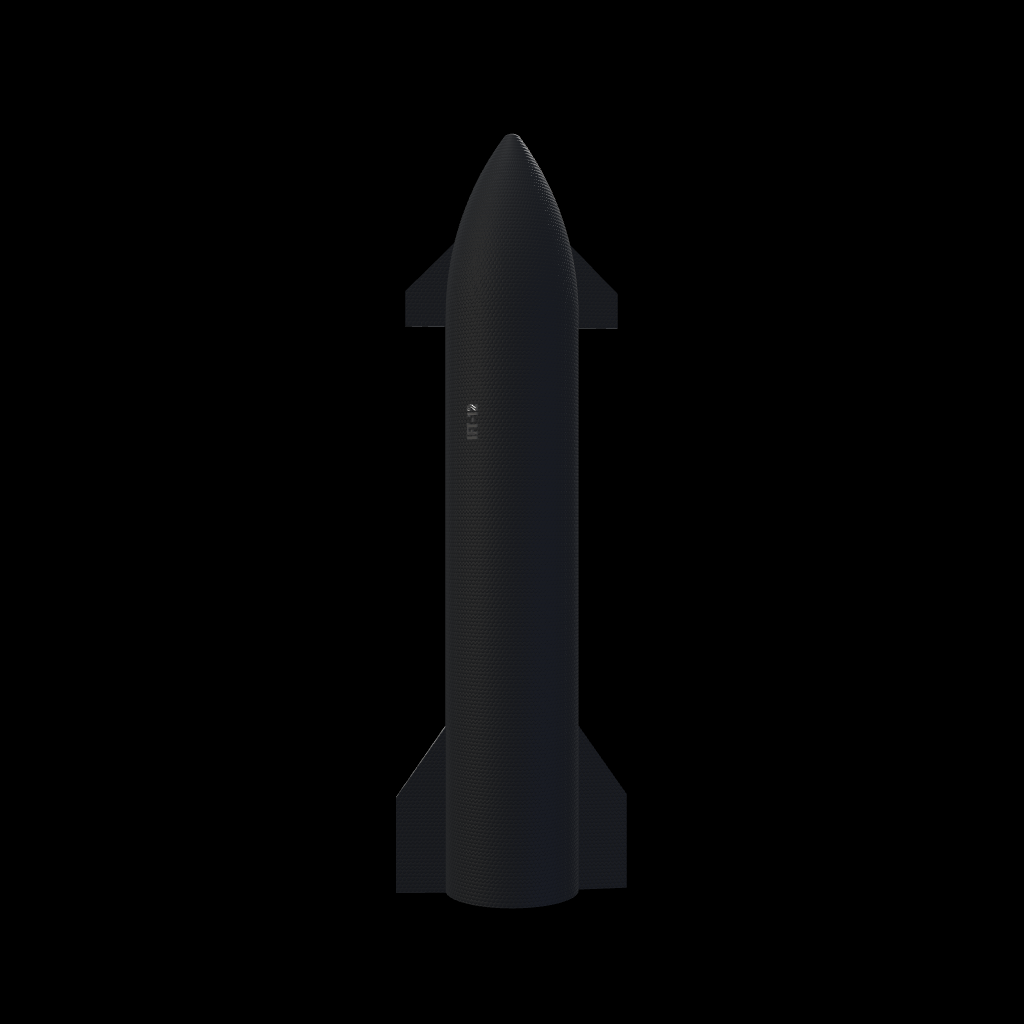
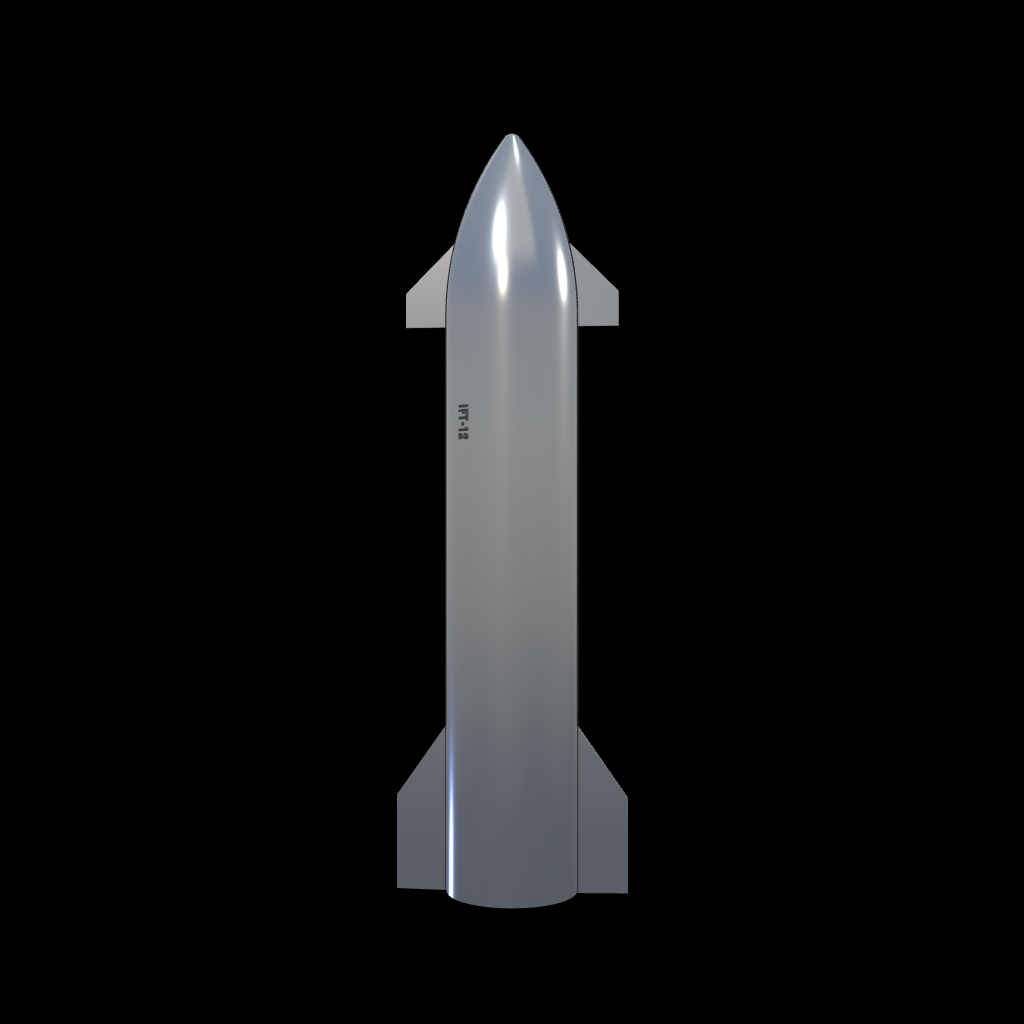
Fix hull lettering: leeward side, first letter toward the nose.
Revert windward default and flip text rotation so the name reads
nose→engines (string left-to-right) on stainless.

Changed region(s): [[0.375, 0.125, 0.625, 0.9062]]

diff --git a/index.html b/index.html
@@ -18,7 +18,7 @@
       content="https://leedsexplore.github.io/starship-custom-name/"
     />
     <link rel="canonical" href="https://leedsexplore.github.io/starship-custom-name/" />
-    <link rel="stylesheet" href="styles.css?v=2.4.15" />
+    <link rel="stylesheet" href="styles.css?v=2.4.16" />
   </head>
   <body>
     <div id="app">
@@ -26,7 +26,7 @@
         <header class="brand">
           <p class="eyebrow">
             Your name on Starship
-            <span class="version" id="app-version" aria-label="App version">v2.4.15</span>
+            <span class="version" id="app-version" aria-label="App version">v2.4.16</span>
           </p>
           <h1>Starship Custom Name</h1>
           <p class="lede">
@@ -121,16 +121,16 @@
             <legend>Hull side</legend>
             <div class="segmented">
               <label
-                ><input type="radio" name="side" value="right" />
+                ><input type="radio" name="side" value="right" checked />
                 Leeward</label
               >
               <label
-                ><input type="radio" name="side" value="left" checked /> Windward</label
+                ><input type="radio" name="side" value="left" /> Windward</label
               >
             </div>
             <p class="field-note">
-              Default is windward (tiled). Switch to leeward for bare stainless /
-              flight-style S## placement.
+              Leeward = bare stainless. Letters start at the nose and read down
+              the hull (left-to-right in the name string).
             </p>
           </fieldset>
 
@@ -258,10 +258,10 @@
             <div class="named-covers" id="named-covers">
               <a
                 class="named-cover"
-                href="?ship=parametric&amp;name=S40&amp;side=left&amp;style=raised&amp;scale=100&amp;size=3.5&amp;pos=30&amp;text=1c1c1c&amp;font=oswald-bold"
+                href="?ship=parametric&amp;name=S40&amp;side=right&amp;style=raised&amp;scale=100&amp;size=3.5&amp;pos=30&amp;text=1c1c1c&amp;font=oswald-bold"
               >
                 <img
-                  src="./assets/named-covers/thumbs/s40.png?v=2.4.15"
+                  src="./assets/named-covers/thumbs/s40.png?v=2.4.16"
                   width="160"
                   height="160"
                   alt="S40 cover"
@@ -271,10 +271,10 @@
               </a>
               <a
                 class="named-cover"
-                href="?ship=parametric&amp;name=S33&amp;side=left&amp;style=raised&amp;scale=100&amp;size=3.5&amp;pos=30&amp;text=1c1c1c&amp;font=oswald-bold"
+                href="?ship=parametric&amp;name=S33&amp;side=right&amp;style=raised&amp;scale=100&amp;size=3.5&amp;pos=30&amp;text=1c1c1c&amp;font=oswald-bold"
               >
                 <img
-                  src="./assets/named-covers/thumbs/s33.png?v=2.4.15"
+                  src="./assets/named-covers/thumbs/s33.png?v=2.4.16"
                   width="160"
                   height="160"
                   alt="S33 cover"
@@ -284,10 +284,10 @@
               </a>
               <a
                 class="named-cover"
-                href="?ship=parametric&amp;name=IFT-12&amp;side=left&amp;style=raised&amp;scale=100&amp;size=3.5&amp;pos=30&amp;text=1c1c1c&amp;font=oswald-bold"
+                href="?ship=parametric&amp;name=IFT-12&amp;side=right&amp;style=raised&amp;scale=100&amp;size=3.5&amp;pos=30&amp;text=1c1c1c&amp;font=oswald-bold"
               >
                 <img
-                  src="./assets/named-covers/thumbs/ift-12.png?v=2.4.15"
+                  src="./assets/named-covers/thumbs/ift-12.png?v=2.4.16"
                   width="160"
                   height="160"
                   alt="IFT-12 cover"
@@ -297,10 +297,10 @@
               </a>
               <a
                 class="named-cover"
-                href="?ship=parametric&amp;name=Starship&amp;side=left&amp;style=raised&amp;scale=100&amp;size=3.5&amp;pos=30&amp;text=1c1c1c&amp;font=oswald-bold"
+                href="?ship=parametric&amp;name=Starship&amp;side=right&amp;style=raised&amp;scale=100&amp;size=3.5&amp;pos=30&amp;text=1c1c1c&amp;font=oswald-bold"
               >
                 <img
-                  src="./assets/named-covers/thumbs/starship.png?v=2.4.15"
+                  src="./assets/named-covers/thumbs/starship.png?v=2.4.16"
                   width="160"
                   height="160"
                   alt="Starship cover"
@@ -330,7 +330,7 @@
               rel="noopener"
               >source</a
             >
-            · <span id="footer-version">v2.4.15</span>)
+            · <span id="footer-version">v2.4.16</span>)
           </p>
           <p>
             Print files (hex one-piece + MMU):
@@ -392,6 +392,6 @@
         }
       }
     </script>
-    <script type="module" src="app.js?v=2.4.15"></script>
+    <script type="module" src="app.js?v=2.4.16"></script>
   </body>
 </html>

diff --git a/app.js b/app.js
@@ -5,14 +5,14 @@ import { STLExporter } from "three/addons/exporters/STLExporter.js";
 import { FontLoader } from "three/addons/loaders/FontLoader.js";
 import { TextGeometry } from "three/addons/geometries/TextGeometry.js";
 import { Brush, Evaluator, SUBTRACTION, HOLLOW_SUBTRACTION } from "three-bvh-csg";
-import { build3mf } from "./export3mf.js?v=2.4.15";
+import { build3mf } from "./export3mf.js?v=2.4.16";
 import {
   APP_NAME,
   APP_VERSION,
   AUTHOR,
   creditLine,
   versionLabel,
-} from "./version.js?v=2.4.15";
+} from "./version.js?v=2.4.16";
 
 const CACHE_BUST = APP_VERSION;
 
@@ -60,12 +60,12 @@ const SHIPS = {
     flapZoneYMm: 60,
     defaultSizeMm: 3.5,
     /**
-     * Default on the windward face (180° from the classic leeward S## band).
+     * Leeward stainless, toward the nose; letters run nose→engines (first char at top).
      */
     defaultPosMm: 30,
-    defaultSide: "left",
-    /** Circumferential offset (mm along hull); mirrored with windward default. */
-    markingAcrossMm: 16,
+    defaultSide: "right",
+    /** Circumferential offset (mm along hull) toward the opposite TPS seam (−X). */
+    markingAcrossMm: -16,
     /** Exported nose-up along +Z with flaps on ±Y — swing into app convention. */
     orient(geometry) {
       geometry.rotateX(-Math.PI / 2); // nose +Z → +Y
@@ -1215,8 +1215,9 @@ function buildFlatTextGeometry(text, size, extrudeMm) {
     -(bb.min.y + bb.max.y) / 2,
     0
   );
-  // Letters run along +Y (ship length); letter height along ±X; extrude +Z.
-  geometry.rotateZ(Math.PI / 2);
+  // Letters run along the hull: first glyph toward the nose (+Y), last toward
+  // the engines (−Y). Letter height along +X; extrude +Z.
+  geometry.rotateZ(-Math.PI / 2);
   // Flight-style italic: slant tops toward the nose (+Y), matching S40 FS-13.
   if (el.italic?.checked) {
     applyFlightItalicShear(geometry);

diff --git a/assets/starship_cad_preview.html b/assets/starship_cad_preview.html
@@ -104,7 +104,7 @@ const PARTS = HEX_RELIEF
   ? [
       {
         label: "stainless hull",
-        url: "./starship_print_1_200_steel.stl?v=2.4.15",
+        url: "./starship_print_1_200_steel.stl?v=2.4.16",
         scale: PRINT_TO_M,
         mat: new THREE.MeshStandardMaterial({
           color: 0x8a929c,
@@ -115,7 +115,7 @@ const PARTS = HEX_RELIEF
       },
       {
         label: "hex heat shield + Raptors",
-        url: "./starship_print_1_200_tiles_hex.stl?v=2.4.15",
+        url: "./starship_print_1_200_tiles_hex.stl?v=2.4.16",
         scale: PRINT_TO_M,
         mat: new THREE.MeshStandardMaterial({
           color: 0x1e2126,
@@ -128,7 +128,7 @@ const PARTS = HEX_RELIEF
   : [
       {
         label: "steel hull + flaps",
-        url: "./starship_print_1_200_steel.stl?v=2.4.15",
+        url: "./starship_print_1_200_steel.stl?v=2.4.16",
         scale: PRINT_TO_M,
         mat: new THREE.MeshStandardMaterial({
           color: 0x8a929c,
@@ -139,7 +139,7 @@ const PARTS = HEX_RELIEF
       },
       {
         label: "heat-shield tiles",
-        url: "./starship_print_1_200_tiles_shell.stl?v=2.4.15",
+        url: "./starship_print_1_200_tiles_shell.stl?v=2.4.16",
         scale: PRINT_TO_M,
         hexUV: true,
         mat: new THREE.MeshStandardMaterial({
@@ -153,7 +153,7 @@ const PARTS = HEX_RELIEF
       },
       {
         label: "raptor bells",
-        url: "./starship_print_1_200_engines.stl?v=2.4.15",
+        url: "./starship_print_1_200_engines.stl?v=2.4.16",
         scale: PRINT_TO_M,
         mat: new THREE.MeshStandardMaterial({
           color: 0x0b0c0e,

diff --git a/version.js b/version.js
@@ -1,6 +1,6 @@
 /** App version & author — bump when shipping user-facing changes. */
 export const APP_NAME = "Starship Custom Name";
-export const APP_VERSION = "2.4.15";
+export const APP_VERSION = "2.4.16";
 
 export const AUTHOR = {
   name: "David Leeds",

diff --git a/README.md b/README.md
@@ -1,6 +1,6 @@
 # Starship Custom Name
 
-**v2.4.15** · by [David Leeds](https://github.com/leedsexplore) ([@leedsexplore](https://github.com/leedsexplore))
+**v2.4.16** · by [David Leeds](https://github.com/leedsexplore) ([@leedsexplore](https://github.com/leedsexplore))
 
 **North star:** the Starship with *your* name on it — a one-piece 1:200 desk print,
 real embossed hex heat tiles, and a free web customizer. Not a rivet-count replica kit.
@@ -48,12 +48,12 @@ See [ATTRIBUTION.md](ATTRIBUTION.md) for details.
 
 Shareable URLs look like:
 
-`https://leedsexplore.github.io/starship-custom-name/?ship=parametric&name=Alex&color=c8ced6&text=1c1c1c&font=oswald-bold&size=3.5&pos=30&depth=0.5&scale=100&side=left&style=raised&wrap=1`
+`https://leedsexplore.github.io/starship-custom-name/?ship=parametric&name=Alex&color=c8ced6&text=1c1c1c&font=oswald-bold&size=3.5&pos=30&depth=0.5&scale=100&side=right&style=raised&wrap=1`
 
 | Control | Notes |
 |--------|--------|
 | Base design | `ship=parametric` (default, Original CAD) or `ship=legacy` (classic remix) — segmented toggle in the UI |
-| Hull side | Default `side=left` = windward (tiles) · `side=right` = leeward (stainless) |
+| Hull side | Default `side=right` = leeward (stainless) · `side=left` = windward (tiles) |
 | Position | Default `pos=30` (parametric) / `-2` (legacy); slider ±60 mm along the hull (nose +) |
 | Font style | Classic (Optimer/Helvetiker/Gentilis/Droid) + popular (Roboto, Open Sans, Montserrat, Inter, …) + display (Oswald, Bebas Neue) |
 | Model scale | Baked into STL/3MF; **CORE One 1:200** preset (100% parametric / ~215% legacy) → H 260.5 mm |
